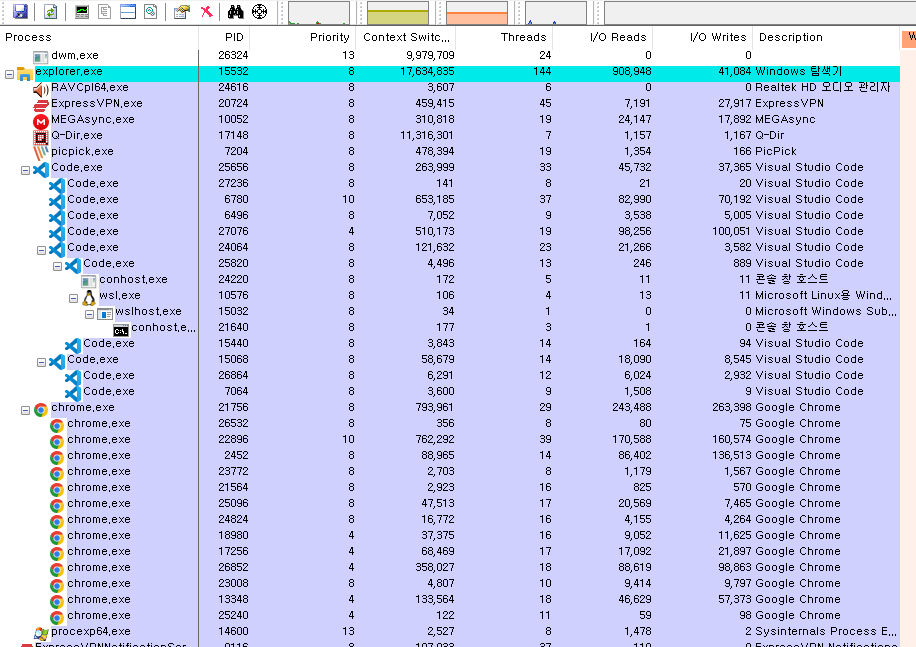
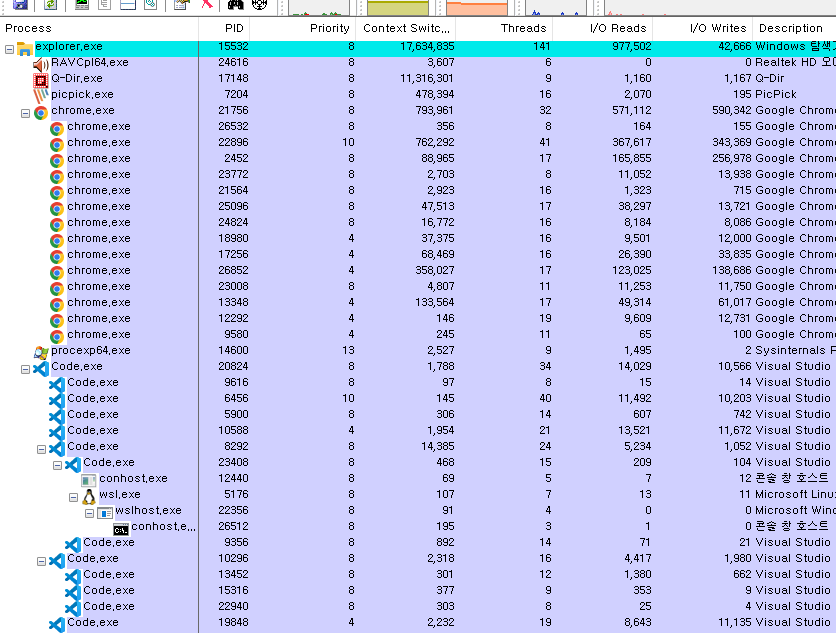
process and thread 4

diff --git a/1-operating-system/1-01-process-and-thread.md b/1-operating-system/1-01-process-and-thread.md
@@ -1,27 +1,23 @@
 # Process & Thread(작성 중)   
 ## < 목표 >
-### 1. 프로세스와 스레드에 대해 설명할 수 있다.   
-### 2. 프로세스와 스레드의 차이점에 대해 설명할 수 있다.
+### 1. 프로세스와 스레드를 비교하여 설명할 수 있다.   
+### 2. 프로세스와 스레드의 차이점에 대해 설명할 수 있다.   
 ---
 운영체제에 있어 가장 중요한 주제 중 하나인 프로세스와 스레드에 대해 살펴보자.   
-먼저 프로세스와 스레드가 무엇인지, 이 둘이 어떻게 다른지 살펴보고   
-추후에 Processing과 Threading에 대해 추가로 다뤄보고자 한다.   
-추가로 공부하면 좋을 주제들은 별도로 정리하였다.   
-
----
 
 ## 1. Process
 Process는 '어떤 일 발생해서 완료되기 까지의 과정' 자체를 의미한다.   
 여기서 말하는 '어떤 일'은 프로그래밍 언어를 통해 코드로 작성되어 실행 가능한 상태의 프로그램이며,   
-이 프로그램이 실행되고 있는 과정을 Process라고 할 수 있다.(Process == a Program in execution)   
-**결국 프로세스는 운영체제로부터 필요한 자원을 할당 받는 '작업 단위'라고 할 수 있다.**   
+이 프로그램이 실행되어 종료될 때까지의 전체 과정을 Process라고 할 수 있다.(Process == a Program in execution)   
+**달리 말하면 프로세스는 운영체제로부터 필요한 자원을 할당 받는 '작업 단위'라고 할 수 있다.**   
 하나의 Process는 새로운 프로세스들을 생성할 수 있으며,   
 다른 Process를 생성하는 프로세스를 부모 프로세스, 생성된 프로세스를 자식 프로세스라고 한다.
 > < Process Explorer >
->>![Process 정보](/assets/process-and-thread/1.1-process.png)
+>>![Process 정보](/assets/process-and-thread/1.1-process.png)   
+>> 다운로드 링크: https://learn.microsoft.com/en-us/sysinternals/downloads/process-explorer
 
 ### 1.1 Process State
-Process가 실행되어 종료될 때까지 Process의 상태는 수시로 변한다.
+Process가 실행되어 종료될 때까지 Process의 상태는 수시로 변한다.   
 각각의 Process가 가질 수 있는 상태 목록은 다음과 같다.
 - Create: Program이 실행되어 Process 진행을 위해 생성된 상태
 - Ready: Process가 스케쥴링에 의해 processor에 할당받길 기다리고 있는 상태
@@ -42,7 +38,7 @@ PCB에는
 등의 정보가 저장되어 있다.
 
 ### ✅ Process 관련 용어 정리
-1. 멀티 프로그래밍: CPU의 효율을 극대화하기 위해 최대한 많은 시간 동안 프로세스를 처리하는 것
+1. 멀티 프로그래밍: CPU의 효율을 극대화하기 위해 유휴 시간을 최소화하여 프로세스를 처리하는 것
 - 초기의 컴퓨터는 작업 도중에 프로세스가 Waiting 상태로 변해도 다른 프로세스를 처리하지 못했다.
 - 현대의 컴퓨터는 작업 도중에 프로세스가 Waiting 상태가 되면 기다리지 않고 다음 프로세스를 실행한다.
 - 하나의 CPU만으로도 멀티 프로그래밍을 구현할 수 있다. 
@@ -51,7 +47,7 @@ PCB에는
 - 각 프로세서는 한번에 하나의 프로세스만을 처리할 수 있다.
 - 타임 퀀텀(Time Quantum)을 정해놓고 사람이 인식하지 못할 정도의 속도로   
 여러 프로세스를 번걸아 가며 처리하는 것을 시분할 시스템이라고 한다.
-- 스케줄링 알고리즘 중 라운드 로빈(Round Robin) 방식이 이에 해당하며,
+- 스케줄링 알고리즘 중 라운드 로빈(Round Robin) 방식이 이에 해당하며,   
 하나의 CPU만으로도 시분할 시스템을 구현할 수 있다.
 
 3. 멀티 프로세싱
@@ -62,33 +58,33 @@ PCB에는
 문맥 전환은 특정 프로세스가 실행을 중단하고 다른 프로세스가 실행되는 과정에서 발생한다.
 비유적으로 표현하면,
 1. 첫 번째 프로세스가 PCB를 들고 CPU를 찾아온다.
-2. CPU는 PCB를 읽고 어떤 작업을 할 지 확인하고 일정 시간만큼 작업을 수행한다.
+2. CPU는 PCB를 읽고 어떤 작업을 할 지 확인하고 일정 시간(Time Quantum)만큼 작업을 수행한다.
 3. 시간이 다 되면 CPU는 다음 작업을 위해 PCB를 업데이트하여 프로세스에게 건네준다.
 4. 작업이 덜 끝난 프로세스는 대기줄의 마지막에 줄을 선다.
 5. 다음 순서의 프로세스가 자신의 PCB를 들고 CPU를 찾아간다.
 6. 2~5번이 반복된다.
 문맥 전환 과정에서 CPU는 별다른 Instruction을 수행하지 않으므로,
-문맥 전환은 온전한 overhead(간접비)라고 할 수 있다.
+문맥 전환은 온전히 overhead(간접비)라고 할 수 있다.
 
 ---
 
 ## 2. Thread
-**'실', '꿰다'의 의미를 가진 것에서 알 수 있듯 Thread는 한 Process 안에 속한 '실행 단위'이다.**   
+**Thread의 사전적 의미는 '실', '꿰다'이며, 하나의 Process 안에 속한 '실행 단위'이다.**   
 Process는 단 하나의 Thread만을 가질 수도 있고, 여러 Thread로 이루어질 수도 있다.
 스레드는 
 1. 스레드 ID
 2. 프로그램 카운터: 프로세스와 마찬가지로 다음에 실행될 코드의 위치를 저장한다.
-3. Register Set: 처리 중인 중간 결과 등을 저장하는 영역
+3. Register Set: 처리 중인 연산의 중간 결과 등을 저장하는 영역
 4. 스택
 으로 구성되며, 스레드는 자신이 속한 프로세스의 다른 스레드들과   
 프로세스의 1) 코드 2) 데이터 3) 힙 4) 운영체제의 자원 등을 공유한다.
 > < Process vs Thread >
->>![프로세스와 스레드 비교](/assets/process-and-thread/2-thread.png)
+>>![프로세스와 스레드 비교](/assets/process-and-thread/2-thread.png)   
 >> 출처: https://www.cs.uic.edu/~jbell/CourseNotes/OperatingSystems/4_Threads.html
 
 ### 2.1 멀티스레딩의 이점
 1. 멀티 프로세서의 활용: 멀티 스레딩을 통해 여러 프로세서를 활용해 병렬적으로 작업을 진행할 수 있다.
-2. 신속한 반응: 각 스레드의 책임 영역을 분산하여 프로세스가 중단없이 실행되도록 한다.
+2. 신속한 처리속도: 각 스레드의 책임 영역을 분산하여 프로세스가 중단없이 실행되도록 한다.
 3. 리소스 공유: 다른 프로세스와 자원을 공유하지 않는 프로세스와 달리,   
 스레드 간의 자원 공유를 통해 한 번에 여러 스레드를 실행할 수 있다.
 4. 경제성: 새로운 프로세스를 생성해 메모리와 자원을 할당하는 것보다   
@@ -100,11 +96,14 @@ Process는 단 하나의 Thread만을 가질 수도 있고, 여러 Thread로 이
 2. 동기화 문제: 공유 자원에 여러 스레드가 접근해 수정할 경우 발생할 수 있는
 문제를 예방하기 위해 데이터 동기화에 대한 추가적인 처리가 요구된다.   
 
-> Critical Section(임계 영역)   
+>Critical Section(임계 영역)   
 >> 멀티 프로그래밍에서 다른 프로세스/스레드와 공유되는 자원이면서,   
 한 번에 하나의 프로세스/스레드만 접근하여 사용할 수 있는 영역이다.   
 >>![임계 영역 예시](/assets/process-and-thread/2.2-critical-section.png)   
 >>출처: Youtuce channel 'Neso Academy': https://youtu.be/ph2awKa8r5Y?list=PLBlnK6fEyqRiVhbXDGLXDk_OQAeuVcp2O&t=670
+
+> Chrome의 멀티 프로세스(크롬에서 shift + esc를 눌러보세요.)
+>> ![크롬의 멀티 프로세스](/assets/process-and-thread/2.2-chrome.png)   
 
 ---
 
@@ -116,7 +115,7 @@ Process는 단 하나의 Thread만을 가질 수도 있고, 여러 Thread로 이
 스레드는 프로세스 없이는 생성될 수 없기에 둘은 불가분의 관계라고 볼 수 있다.   
 프로세스는 실행 과정에서 1) 프로세서, 2) 주소 공간, 3) 메모리 등의 자원을 할당받아야 한다.   
 따라서 여러 스레드로 나누는 것이 시스템 자원을 보다 효율적으로 관리할 수 있는 방법이다.   
-뿐만 아니라 프로세스 간의 통신은 IPC(InterProcess Communication)를 통해 이루어지는데   
+뿐만 아니라 프로세스 간의 통신은 IPC(Inter-Process Communication)를 통해 이루어지는데   
 이보다는 서로 자원을 공유하는 스레드를 활용하는 것이 여러 작업들 간의 통신 부담을 줄일 수 있다.   
 멀티 스레딩은 나름의 장점이 있긴 하지만,   
 자원 공유로 인한 동기화 문제에 더 많은 노력이 요구되며   

diff --git a/2-network/2-00-what-happens-when-you-type-googledotcom.md b/2-network/2-00-what-happens-when-you-type-googledotcom.md
@@ -2,7 +2,6 @@
 
 브라우저에 google.com을 치고 엔터를 쳤을 때 일어나는 일을 개략적으로 살펴보자.   
 최대한 high-level단에 맞춰 간략히 정리하려고 했으며,   
-추가로 공부하길 추천하는 주제들은 별도로 정리하였다.   
 여기서는 브라우저 검색창에 'google.com'을 문자열 그대로 입력하고 엔터를 친 상황을 기준으로 살펴본다. 
 
 ---
